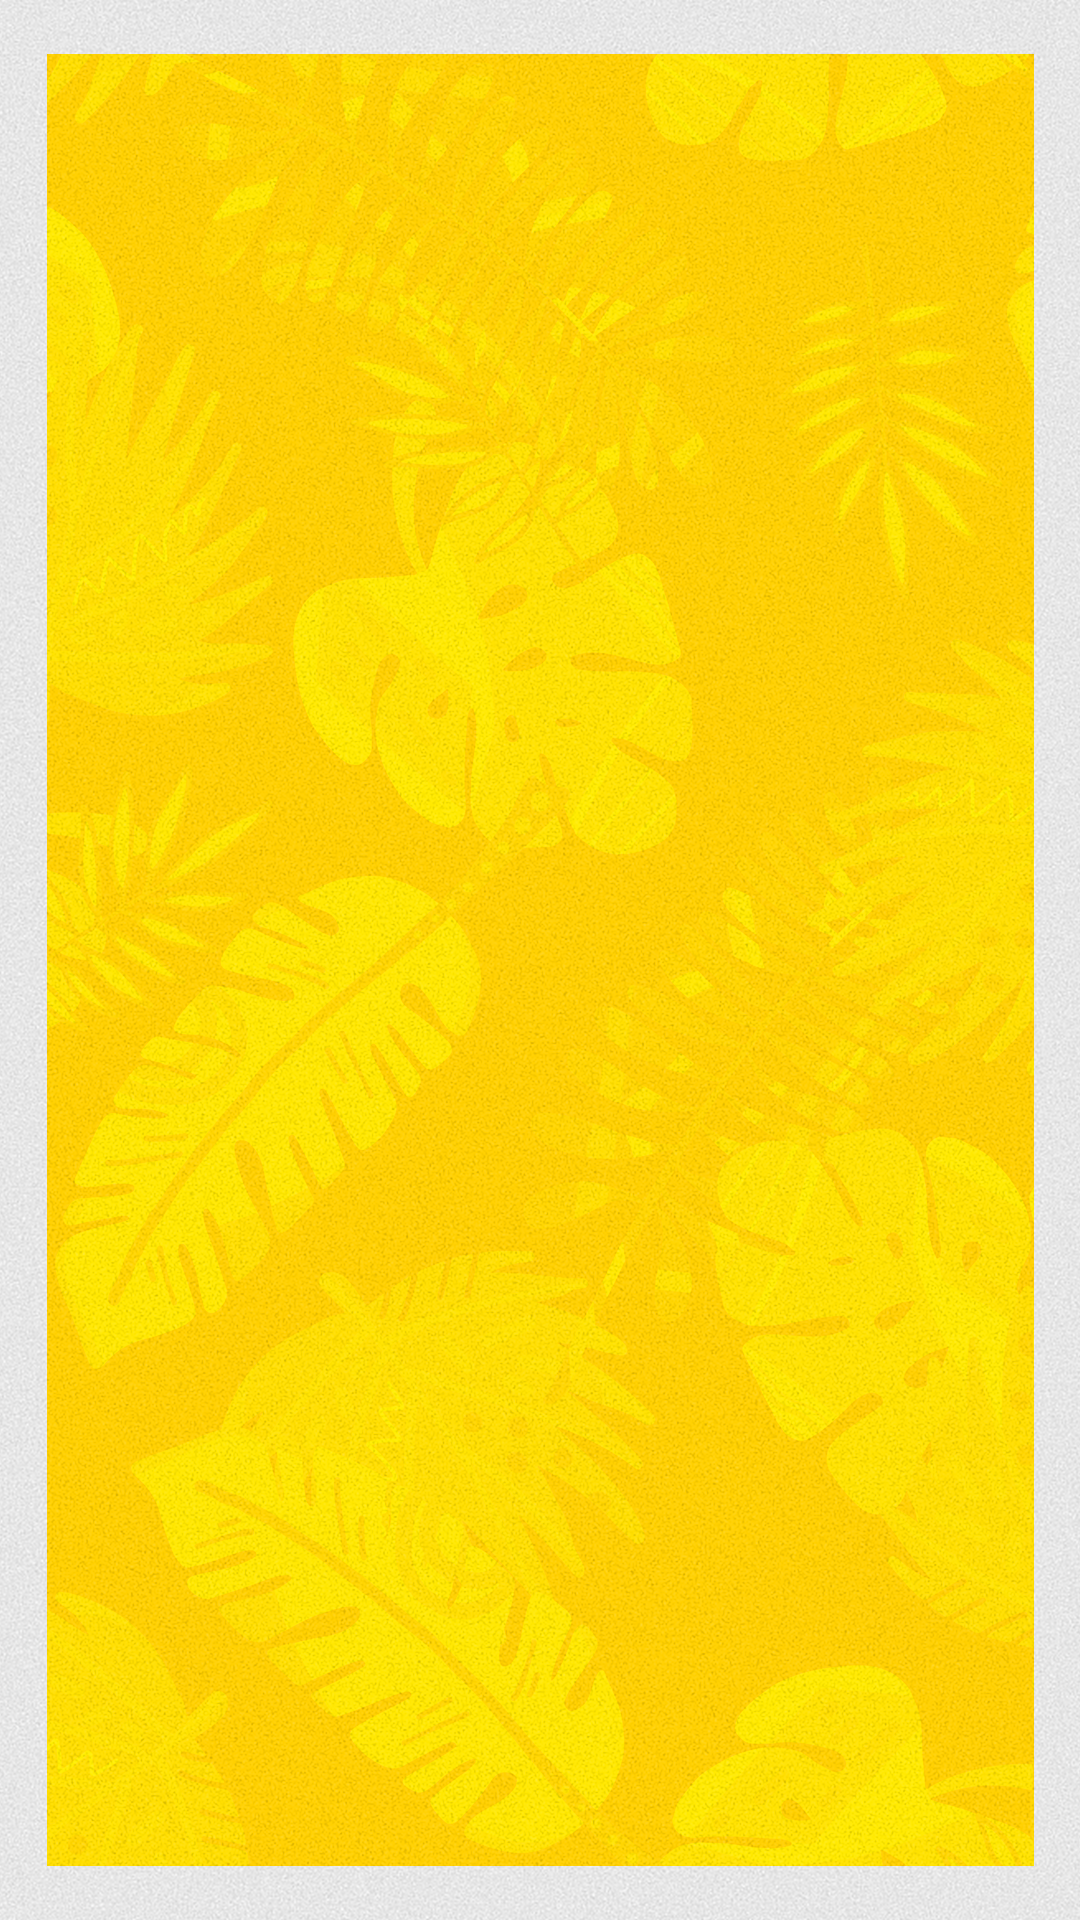
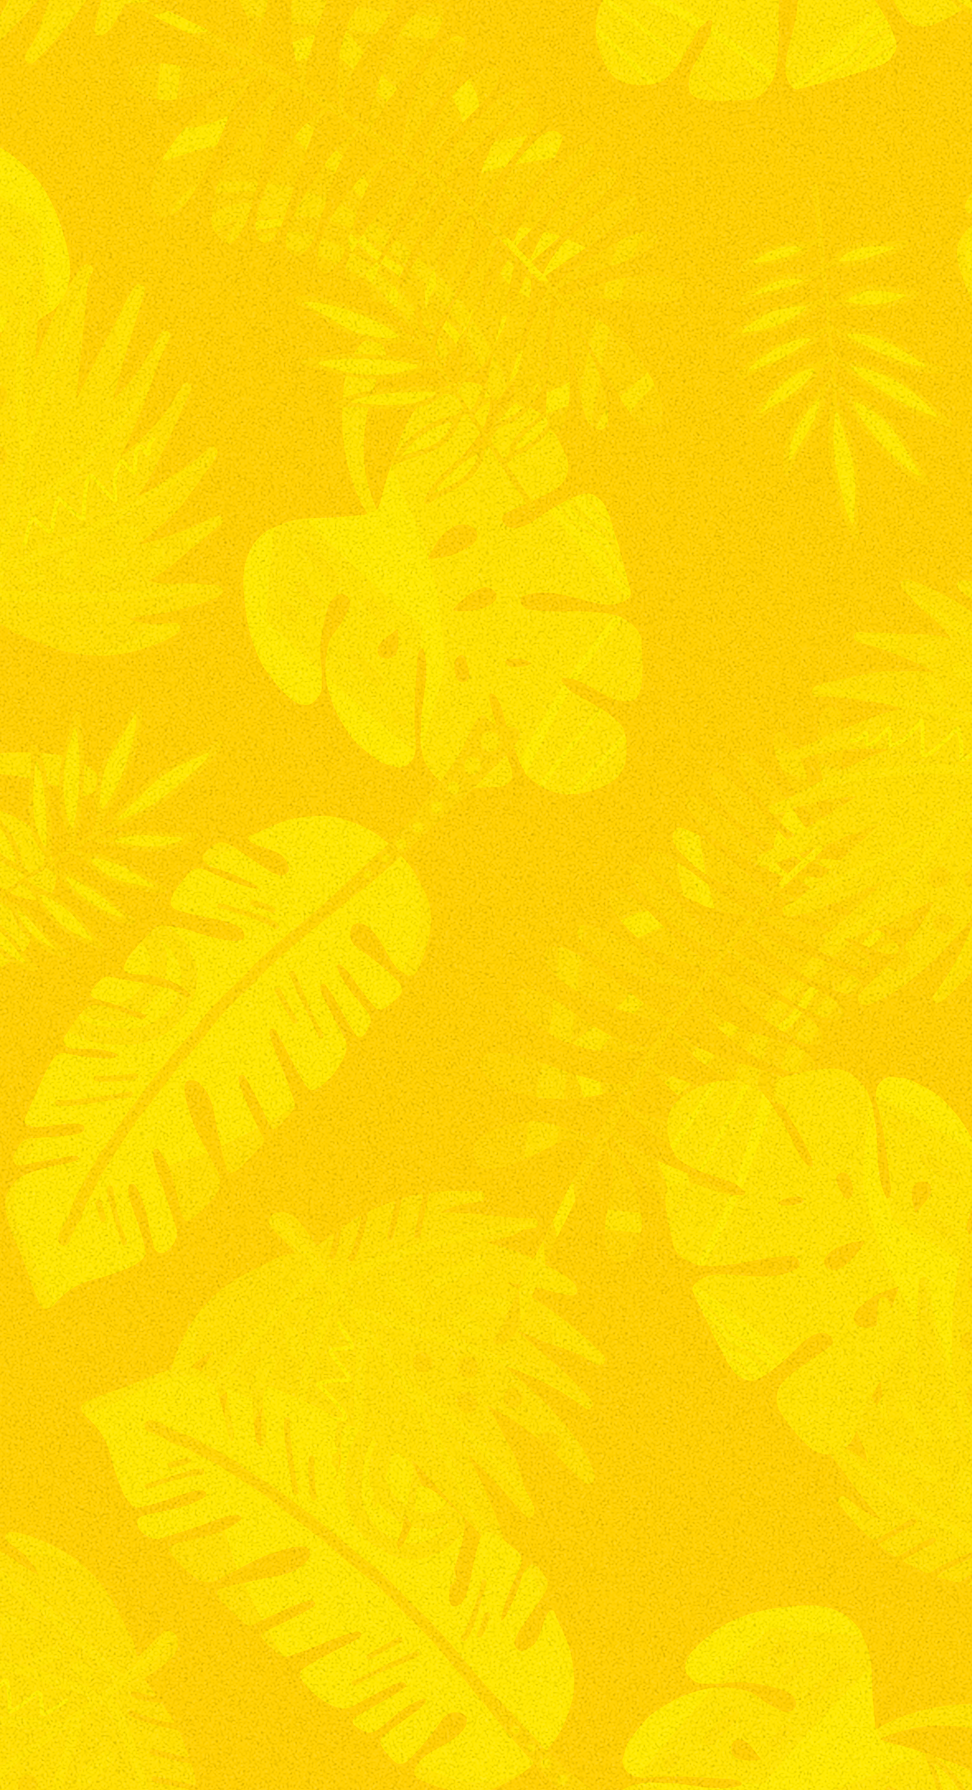
change bg

diff --git a/index.html b/index.html
@@ -157,17 +157,6 @@
   </script>
 
   <div id="app" @vue:mounted="setup">
-    <!-- <div class="placa-titulo-wrap flex-row">
-      <picture class="placa-titulo-container">
-        <source type="image/webp" sizes="(max-width: 388px) 100vw, 388px" srcset="
-                    ./img/placa-data_w_190.webp 190w,
-                    ./img/placa-data_w_388.webp 388w" style="width: 100%;" />
-        <source type="image/png" sizes="(max-width: 388px) 100vw, 388px" srcset="
-                    ./img/placa-data_w_190.png 190w,
-                    ./img/placa-data_w_388.png 388w" style="width: 100%;" />
-        <img src="./img/placa-data.png" alt="21/05 as 22 horas. Parque de exposições Umuarama - PR">
-      </picture>
-    </div> -->
     <div class="folhas-dec"></div>
 
     <section class="conteudo-wrap">
@@ -472,7 +461,7 @@
     } */
 
     #app {
-      background-image: url('./img/bg.png');
+      background-image: url('./img/bg-rosa.png');
       background-position: top center;
       background-size: cover;
       max-width: 100%;
@@ -481,6 +470,23 @@
       margin: 0;
       padding: 0;
       position: relative;
+      z-index: 5;
+    }
+
+    #app::before {
+      content: "";
+      background-image: url('./img/bg-amarelo.png');
+      background-position: top center;
+      background-size: cover;
+      max-width: 100%;
+      width: calc(100% - 36px);
+      height: calc(100% - 36px);
+      margin: 0;
+      padding: 0;
+      position: absolute;
+      margin: 18px;
+      z-index: -1;
+
     }
 
     .conteudo-wrap {
